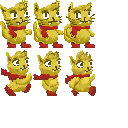
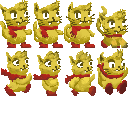
midair

Changed region(s): [[0.75, 0.0312, 1.0, 0.75], [0.3438, 0.7188, 0.375, 0.75]]

diff --git a/src/scene/gameplay.js b/src/scene/gameplay.js
@@ -97,6 +97,20 @@ scene.prototype.createBenryAnims = function() {
 		frameRate: 10,
 		repeat: -1
 	})
+
+	this.anims.create({
+		key: 'crouch',
+		frames: this.anims.generateFrameNumbers('player', { frames: [3] }),
+		frameRate: 10,
+		repeat: -1
+	})
+
+	this.anims.create({
+		key: 'midair',
+		frames: this.anims.generateFrameNumbers('player', { frames: [7] }),
+		frameRate: 10,
+		repeat: -1
+	})
 };
 scene.prototype.giveItemToPlayer = function(player, item) {
 	this.itemCount++;
@@ -137,6 +151,11 @@ scene.prototype.updatePlayerInput = function() {
 	if (crouchIsDown && onTheGround) {
 		crouching = true;
 		this.player.body.setVelocityX(0);
+		this.player.play('crouch', true);
+	}
+
+	if (!onTheGround) {
+		this.player.play('midair', true);
 	}
 
 	if (spaceIsDown && onTheGround) {
